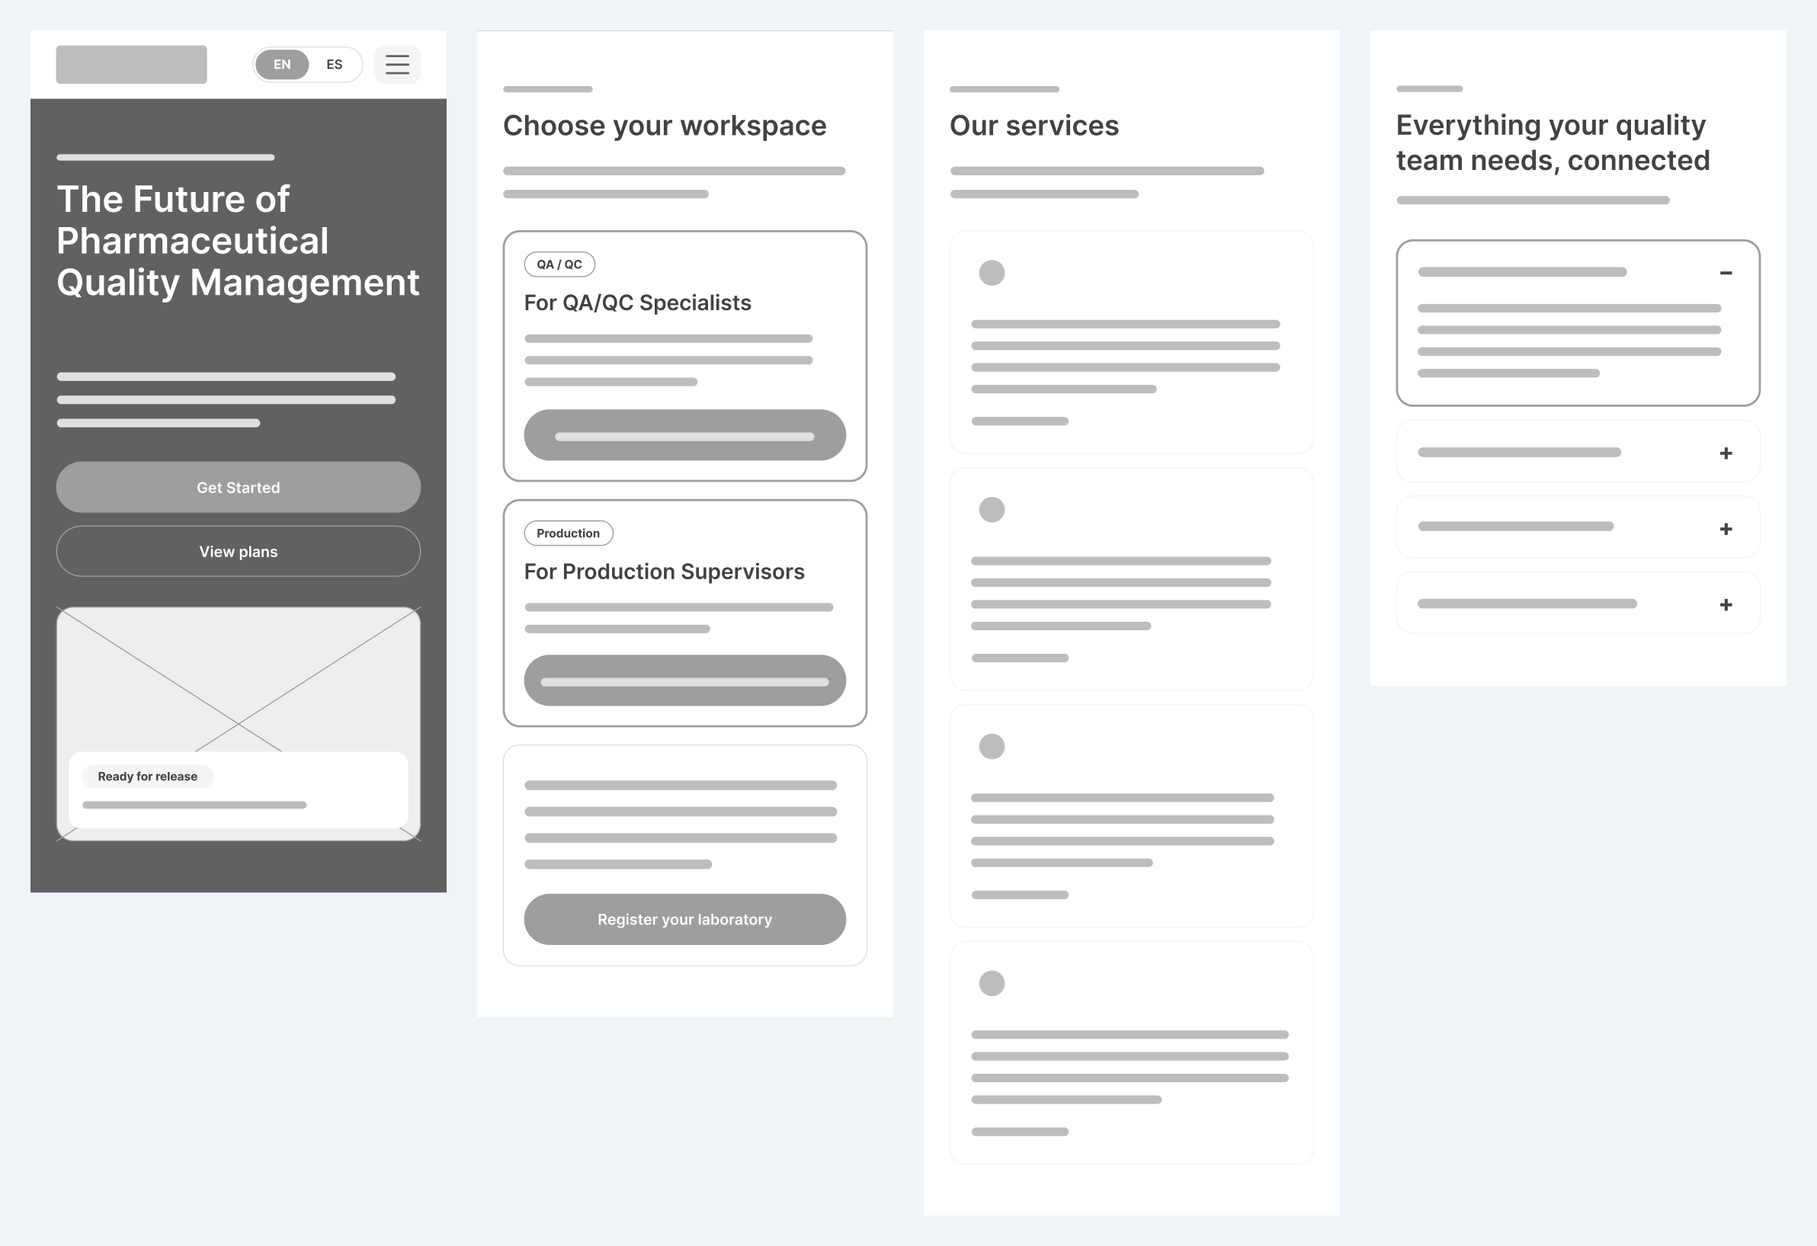
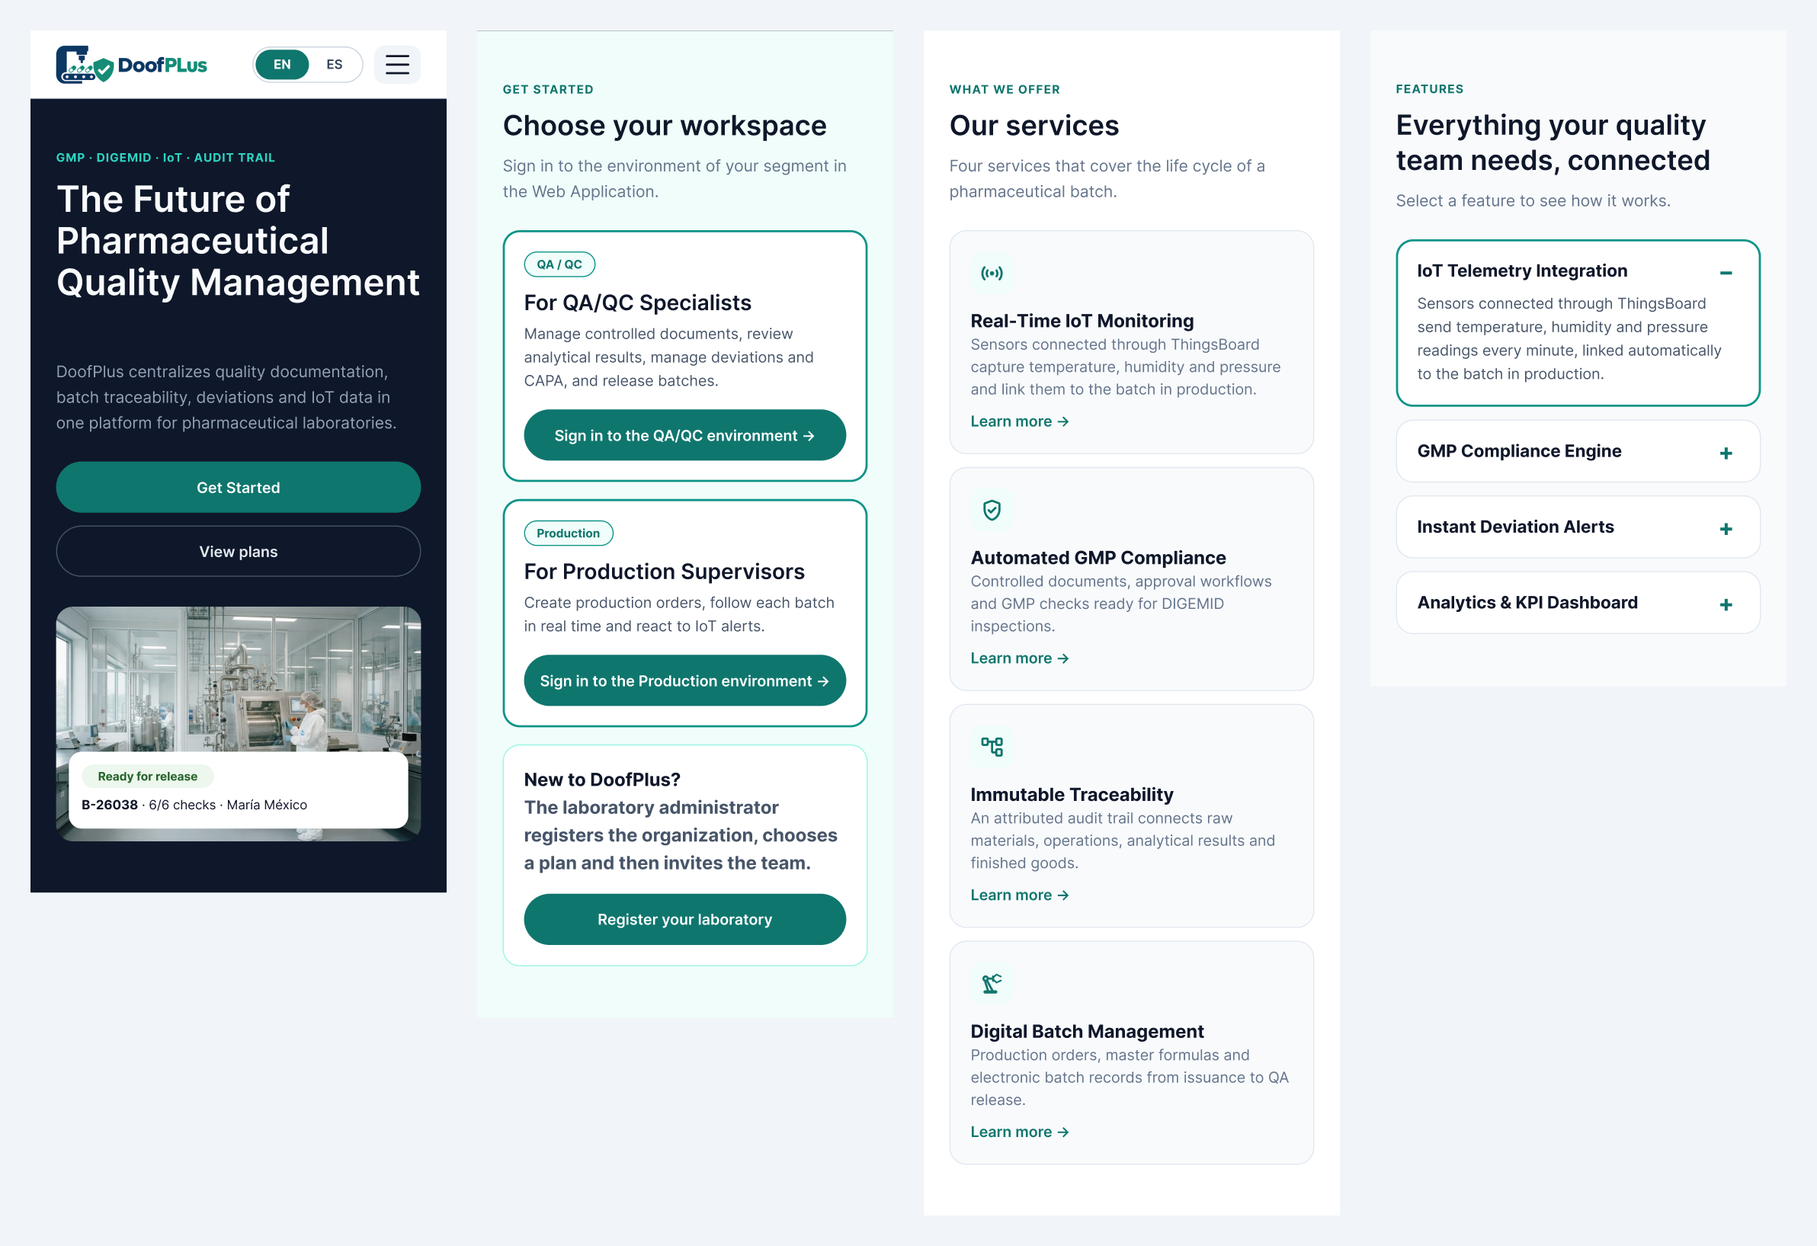
docs(chapter4): add new imagen about wireframes and mockups

diff --git a/docs/chapter4.md b/docs/chapter4.md
@@ -9,7 +9,7 @@ En esta sección se establecen las bases visuales y de comunicación para DoofPl
 
 ### 4.1.1. General Style Guidelines
 
-Para asegurar una interfaz coherente y alineada con los estándares que exige la industria farmacéutica, el sistema de diseño de DoofPlus toma como base **Material Design**, el lenguaje de diseño indicado para el proyecto. En la Web Application se implementa con **Angular CLI** usando un tema basado en **Material Design**, y en la Landing Page con ***HTML5*** y ***CSS3*** respetando los mismos tokens de color, tipografía y espaciado.
+Para asegurar una interfaz coherente y alineada con los estándares que exige la industria farmacéutica, el sistema de diseño de DoofPlus toma como base **Material Design**, el lenguaje de diseño indicado para el proyecto. En la Web Application se implementa con **View**  y en la Landing Page con ***HTML5*** y ***CSS3*** respetando los mismos tokens de color, tipografía y espaciado.
 
 #### Branding:
 El logotipo escogido para DoofPlus comunica de forma directa y sintética la propuesta de valor del sistema: la integración de la automatización industrial con la rigurosidad del control farmacéutico. Para la sección de Branding, el análisis de los componentes de dicho logotipo se desglosa de la siguiente manera:
@@ -138,10 +138,10 @@ Para el posicionamiento y la indexación correcta de las principales páginas de
 
 Valores para la Landing Page (sitio estático indexable):
 
-| **Página** | **Title** | **Meta description** | **Meta keywords** | **Author** |
-| --- | --- | --- | --- | --- |
-| Landing Page (index.html) | DoofPlus \| Pharmaceutical Quality & Batch Traceability Platform | SaaS platform that centralizes quality documentation, batch traceability, deviations and IoT data for pharmaceutical laboratories (GMP/DIGEMID). | pharmaceutical quality management, batch traceability, GMP, DIGEMID, CAPA, audit trail, IoT | IngesCompany |
-| Contact us (contact.html) | Contact us \| DoofPlus | Send your questions about DoofPlus and its plans to the IngesCompany team. | DoofPlus contact, pharmaceutical quality software, GMP software Peru | IngesCompany |
+| **Página** | **Title** | **Meta description** | **Meta keywords** | **Author**     |
+| --- | --- | --- | --- |----------------|
+| Landing Page (index.html) | DoofPlus \| Pharmaceutical Quality & Batch Traceability Platform | SaaS platform that centralizes quality documentation, batch traceability, deviations and IoT data for pharmaceutical laboratories (GMP/DIGEMID). | pharmaceutical quality management, batch traceability, GMP, DIGEMID, CAPA, audit trail, IoT | IngesCompanyCC |
+| Contact us (contact.html) | Contact us \| DoofPlus | Send your questions about DoofPlus and its plans to the IngesCompany team. | DoofPlus contact, pharmaceutical quality software, GMP software Peru | IngesCompanyCC |
 
 Valores para las vistas principales de la Web Application. Al ser una SPA, el título se actualiza en cada cambio de ruta con la propiedad `title` de las rutas de Angular Router y la descripción con el servicio `Meta` de Angular; keywords y author se definen una vez en `index.html` con los mismos valores de la Landing Page:
 
@@ -181,7 +181,7 @@ Las acciones y técnicas que guían a los usuarios son:
 
 ## 4.3. Landing Page UI Design
 
-La propuesta de UI de la Landing Page traduce las decisiones de las secciones anteriores: la jerarquía visual ordena el contenido desde la propuesta de valor hasta la presentación de la startup; las etiquetas (Home, Features, Benefits, Plans, About Us) siguen el Labeling System; la barra fija con anclas, las llamadas a la acción por segmento y el enlace "Sign in" implementan el Navigation System; y el Design System de la sección 4.1 (Inter, verde azulado #0F766E, azul pizarra #0F172A y Material Symbols Rounded) se aplica de forma consistente con la Web Application. La Landing Page atiende las user stories US01 a US05 y US44 a US49.
+La propuesta de UI de la Landing Page traduce las decisiones de las secciones anteriores: la jerarquía visual ordena el contenido desde la propuesta de valor hasta la presentación de la startup; las etiquetas (Home, Features, Benefits, Plans, About Us) siguen el Labeling System; la barra fija con anclas, las llamadas a la acción por segmento y el enlace "Sign in" implementan el Navigation System; y el Design System de la sección 4.1 (Inter, verde azulado #0F766E, azul pizarra #0F172A y Material Symbols Rounded) se aplica de forma consistente con la Web Application. La Landing Page atiende las user stories US01 a US05 y US44 a US49. Los wireframes y mock-ups se elaboraron en Figma y están disponibles en el [archivo de diseño de DoofPlus](https://www.figma.com/design/E9MAGI3LDC0m8o6lWTGyfK/DoofPlus?node-id=19-813).
 
 Las secciones se presentan en el siguiente orden, que prioriza la información que el visitante necesita para decidir (qué es DoofPlus, qué ofrece y cuánto cuesta) antes que la presentación del equipo:
 
@@ -345,11 +345,11 @@ Los mock-ups aplican sobre los wireframes el Design System de la sección 4.1 y 
 
 | Contact us | Contact us · Invalid data | Message sent |
 | :---: | :---: | :---: |
-| ![Contact us](../assets/img/chapter4/landing-page/wireframes/pages/landing-desktop-contact-us.png) | ![Contact us · Invalid data](../assets/img/chapter4/landing-page/wireframes/pages/landing-desktop-contact-us-invalid-data.png) | ![Message sent](../assets/img/chapter4/landing-page/wireframes/pages/landing-desktop-message-sent.png) |
+| ![Contact us](../assets/img/chapter4/landing-page/mockups/pages/landing-desktop-contact-us.png) | ![Contact us · Invalid data](../assets/img/chapter4/landing-page/mockups/pages/landing-desktop-contact-us-invalid-data.png) | ![Message sent](../assets/img/chapter4/landing-page/mockups/pages/landing-desktop-message-sent.png) |
 
 | Terms of Service | Privacy Policy |
 | :---: | :---: |
-| ![Terms of Service](../assets/img/chapter4/landing-page/wireframes/pages/landing-desktop-terms-of-service.png) | ![Privacy Policy](../assets/img/chapter4/landing-page/wireframes/pages/landing-desktop-privacy-policy.png) |
+| ![Terms of Service](../assets/img/chapter4/landing-page/mockups/pages/landing-desktop-terms-of-service.png) | ![Privacy Policy](../assets/img/chapter4/landing-page/mockups/pages/landing-desktop-privacy-policy.png) |
 
 **Mobile Web Browser (390 px)**
 
@@ -363,128 +363,73 @@ La versión mobile mantiene el orden y el contenido de desktop en una sola colum
 
 | Menu open | Contact us | Contact us · Invalid data | Message sent |
 | :---: | :---: | :---: | :---: |
-| ![Menu open](../assets/img/chapter4/landing-page/wireframes/pages/landing-mobile-menu-open.png) | ![Contact us](../assets/img/chapter4/landing-page/wireframes/pages/landing-mobile-contact-us.png) | ![Invalid data](../assets/img/chapter4/landing-page/wireframes/pages/landing-mobile-contact-us-invalid-data.png) | ![Message sent](../assets/img/chapter4/landing-page/wireframes/pages/landing-mobile-message-sent.png) |
-
+| ![Menu open](../assets/img/chapter4/landing-page/mockups/pages/landing-mobile-menu-open.png) | ![Contact us](../assets/img/chapter4/landing-page/mockups/pages/landing-mobile-contact-us.png) | ![Invalid data](../assets/img/chapter4/landing-page/mockups/pages/landing-mobile-contact-us-invalid-data.png) | ![Message sent](../assets/img/chapter4/landing-page/mockups/pages/landing-mobile-message-sent.png) |
 
 ## 4.4. Web Applications UX/UI Design
 
-La presente sección describe el diseño de experiencia de usuario (UX) e interfaz de usuario (UI) desarrollado para la plataforma web DoofPlus. La propuesta fue diseñada para apoyar la gestión integral de calidad farmacéutica bajo entornos regulados GxP, facilitando la administración documental, la trazabilidad de procesos productivos, la gestión de desviaciones y el monitoreo operativo de laboratorios y líneas de manufactura.
+Esta sección describe el diseño de experiencia (UX) e interfaz (UI) de la Web Application de DoofPlus. La aplicación se organiza en tres entornos, cada uno con su propio inicio de sesión, color y módulos: **QA/QC** (segmento 1, especialista de aseguramiento y control de calidad, persona María México), **Production** (segmento 2, jefe o supervisor de producción, persona Alberto Valle) y **Administration** (administrador del laboratorio, que registra la organización, invita a los usuarios y gestiona la suscripción). Los datos de ejemplo corresponden a un mismo caso: Laboratorios Andinos S.A.C., el lote B-26041 de Paracetamol 500 mg y la excursión de temperatura del sensor T-204 que origina la desviación DEV-26017, de modo que las pantallas de ambos segmentos cuentan una historia coherente. Los wireframes y mock-ups de escritorio y mobile se elaboraron en Figma y están disponibles en el [archivo de diseño de DoofPlus](https://www.figma.com/design/E9MAGI3LDC0m8o6lWTGyfK/DoofPlus?node-id=19-814).
 
-El diseño considera principios de usabilidad, accesibilidad, consistencia visual y eficiencia operativa, asegurando que los diferentes perfiles de usuario puedan ejecutar actividades críticas relacionadas con el cumplimiento normativo, la liberación de lotes y la auditoría regulatoria.
+Todas las pantallas comparten la misma estructura, derivada de la arquitectura de información de la sección 4.2: un sidebar con el logotipo, el entorno activo y sus módulos (navegación global); una barra superior con la búsqueda global, el selector de idioma y el avatar del usuario; y un área de contenido que ubica arriba los indicadores y abajo las tablas de detalle. Las acciones críticas, como aprobar, liberar o rechazar, se confirman con firma electrónica (US08), y los estados se muestran con los valores del modelo de dominio.
 
 ### 4.4.1. Web Applications Wireframes
 
-En esta sección se presentan los wireframes diseñados para la aplicación web de DoofPlus. Cada pantalla fue desarrollada para gestionar procesos de calidad farmacéutica, producción regulada GxP, trazabilidad de lotes, control documental y cumplimiento normativo mediante firmas electrónicas y registros auditables.
+Los wireframes de baja fidelidad definen la distribución de cada pantalla antes del diseño visual. Se agrupan por segmento y se presentan en montajes, en el mismo orden que los mock-ups de la sección 4.4.3, donde se explica cada pantalla.
 
-A continuación, se muestran las representaciones esquemáticas de baja fidelidad que describen la estructura, distribución de componentes y funcionalidades principales de cada módulo de la plataforma.
+**Desktop Web Browser · Compartido: elección de entorno, registro de la organización y perfil**
 
-- **Landing Page - DoofPlus**
+Incluye "Sign in · Choose your environment", "Organization registration" con su estado "RUC already registered" y "Account · Profile & preferences".
 
-Pantalla de presentación de la plataforma que comunica la propuesta de valor de DoofPlus y permite acceder al portal especializado para gestión de calidad y producción farmacéutica bajo normativas GxP.
+![Web App Wireframes · Desktop · Shared](../assets/img/chapter4/web-application/wireframes/desktop-shared-environment-selection-onboarding-profile-montage-1.png)
 
-![Wireframe](../assets/img/chapter4/prototype/wireframes/Landing%20Page.png)
+**Desktop Web Browser · Segmento 1: Especialista QA/QC**
 
-- **Regulatory Identification - DoofPlus**
+Incluye el inicio de sesión del entorno QA/QC con sus estados (credenciales inválidas, 2FA y acceso no autorizado) y los módulos Quality overview, Quality indicators, Quality documents, Analytical results, Deviation report & detail, CAPA plan, Batch release, Audits & findings, Audit trail, Regulatory reports y Tasks & collaboration.
 
-Pantalla de autenticación regulatoria que solicita las credenciales corporativas y la firma electrónica necesarias para acceder a funcionalidades sujetas a cumplimiento FDA 21 CFR Part 11 y normativas GxP.
+![Web App Wireframes · Desktop · QA/QC (1)](../assets/img/chapter4/web-application/wireframes/desktop-segment-1-qa-qc-specialist-montage-1.png)
 
-![Wireframe](../assets/img/chapter4/prototype/wireframes/Login.png)
+![Web App Wireframes · Desktop · QA/QC (2)](../assets/img/chapter4/web-application/wireframes/desktop-segment-1-qa-qc-specialist-montage-2.png)
 
-- **Environment Selection Portal - DoofPlus**
+![Web App Wireframes · Desktop · QA/QC (3)](../assets/img/chapter4/web-application/wireframes/desktop-segment-1-qa-qc-specialist-montage-3.png)
 
-Interfaz que permite seleccionar el entorno de trabajo autorizado, diferenciando entre el segmento de calidad (QA/QC) y el entorno de producción farmacéutica.
+![Web App Wireframes · Desktop · QA/QC (4)](../assets/img/chapter4/web-application/wireframes/desktop-segment-1-qa-qc-specialist-montage-4.png)
 
-![Wireframe](../assets/img/chapter4/prototype/wireframes/Selección%20de%20Espacio.png)
+![Web App Wireframes · Desktop · QA/QC (5)](../assets/img/chapter4/web-application/wireframes/desktop-segment-1-qa-qc-specialist-montage-5.png)
 
-- **QA & Lab Console Dashboard - DoofPlus**
+**Desktop Web Browser · Segmento 2: Jefe o Supervisor de Producción**
 
-Panel principal para usuarios de calidad que centraliza la supervisión de lotes pendientes, ensayos analíticos, desviaciones abiertas y actividades del laboratorio.
+Incluye el inicio de sesión del entorno de Producción con sus estados y los módulos Production overview, Products & master formulas, Production order & master formula, Batches (y su estado "Batch not created"), Batch detail & traceability, Batch IoT evidence, Raw-material receipt, Equipment & IoT devices, IoT overview y Equipment & sensor detail.
 
-![Wireframe](../assets/img/chapter4/prototype/wireframes/Dashboard%20Calidad.png)
+![Web App Wireframes · Desktop · Production (1)](../assets/img/chapter4/web-application/wireframes/desktop-segment-2-production-supervisor-montage-1.png)
 
-- **Document Management & Master SOPs - DoofPlus**
+![Web App Wireframes · Desktop · Production (2)](../assets/img/chapter4/web-application/wireframes/desktop-segment-2-production-supervisor-montage-2.png)
 
-Repositorio documental diseñado para gestionar procedimientos operativos estándar (SOPs), registros electrónicos, certificados de análisis y documentación regulatoria controlada.
+![Web App Wireframes · Desktop · Production (3)](../assets/img/chapter4/web-application/wireframes/desktop-segment-2-production-supervisor-montage-3.png)
 
-![Wireframe](../assets/img/chapter4/prototype/wireframes/Documentación.png)
+![Web App Wireframes · Desktop · Production (4)](../assets/img/chapter4/web-application/wireframes/desktop-segment-2-production-supervisor-montage-4.png)
 
-- **Quality Protocols & Validation Management - DoofPlus**
+**Desktop Web Browser · Administrador del laboratorio**
 
-Módulo destinado a la administración de protocolos de validación, cualificación de equipos y seguimiento de actividades relacionadas con IQ, OQ y PQ.
+Incluye el inicio de sesión del entorno de Administración y los módulos Administration overview, Users & profiles, Invite user y Subscriptions & payments.
 
-![Wireframe](../assets/img/chapter4/prototype/wireframes/Protocolos.png)
+![Web App Wireframes · Desktop · Administration (1)](../assets/img/chapter4/web-application/wireframes/desktop-laboratory-administrator-montage-1.png)
 
-- **Critical Deviations & CAPA Actions Control - DoofPlus**
+![Web App Wireframes · Desktop · Administration (2)](../assets/img/chapter4/web-application/wireframes/desktop-laboratory-administrator-montage-2.png)
 
-Pantalla de seguimiento de desviaciones críticas, análisis de impacto GMP y control de acciones correctivas y preventivas (CAPA).
+**Mobile Web Browser**
 
-![Wireframe](../assets/img/chapter4/prototype/wireframes/Desviaciones.png)
+En mobile se priorizan las tareas que se realizan fuera del escritorio: la elección de entorno y el inicio de sesión, la bandeja de tareas, la revisión y firma de aprobaciones y la consulta de lotes para QA/QC, y el monitoreo IoT, la consulta de lotes y el reporte de incidencias desde planta para Producción.
 
-- **Process Audit Master Plan - DoofPlus**
+![Web App Wireframes · Mobile · Shared](../assets/img/chapter4/web-application/wireframes/mobile-shared-environment-selection-montage-1.png)
 
-Módulo para planificar, ejecutar y monitorear auditorías internas, inspecciones regulatorias y hallazgos asociados al cumplimiento GMP.
+![Web App Wireframes · Mobile · QA/QC (1)](../assets/img/chapter4/web-application/wireframes/mobile-segment-1-qa-qc-specialist-montage-1.png)
 
-![Wireframe](../assets/img/chapter4/prototype/wireframes/Auditorías.png)
+![Web App Wireframes · Mobile · QA/QC (2)](../assets/img/chapter4/web-application/wireframes/mobile-segment-1-qa-qc-specialist-montage-2.png)
 
-- **GxP Regulatory Reports & Metrics - DoofPlus**
+![Web App Wireframes · Mobile · Production (1)](../assets/img/chapter4/web-application/wireframes/mobile-segment-2-production-supervisor-montage-1.png)
 
-Panel de análisis que permite generar reportes regulatorios, revisar métricas de desempeño y exportar información validada para auditorías e inspecciones.
+![Web App Wireframes · Mobile · Production (2)](../assets/img/chapter4/web-application/wireframes/mobile-segment-2-production-supervisor-montage-2.png)
 
-![Wireframe](../assets/img/chapter4/prototype/wireframes/Reportes.png)
-
-- **Analytical Testing & Microbiology Control (QC) - DoofPlus**
-
-Pantalla de control de ensayos analíticos y microbiológicos que permite gestionar muestras, equipos de laboratorio y resultados fuera de especificación (OOS).
-
-![Wireframe](../assets/img/chapter4/prototype/wireframes/Ensayos.png)
-
-- **Analytical Results Entry & Validation - DoofPlus**
-
-Interfaz destinada al registro y validación de resultados analíticos, integrando verificación de especificaciones y aprobación mediante firma electrónica.
-
-![Wireframe](../assets/img/chapter4/prototype/wireframes/Resultados.png)
-
-- **Pharmaceutical Batch History & Traceability - DoofPlus**
-
-Módulo de consulta histórica que permite rastrear lotes farmacéuticos, consultar estados regulatorios y acceder a certificados de análisis.
-
-![Wireframe](../assets/img/chapter4/prototype/wireframes/Historial%20de%20Lotes.png)
-
-- **Cross-Traceability & Audit Center - DoofPlus**
-
-Centro de trazabilidad que integra genealogía de lotes, registros de laboratorio, documentación asociada y auditoría completa de eventos regulatorios.
-
-![Wireframe](../assets/img/chapter4/prototype/wireframes/Centro%20de%20Trazabilidad.png)
-
-- **GxP Production Control Console - DoofPlus**
-
-Panel principal del entorno de producción que permite supervisar órdenes activas, progreso de eBR y estado de los procesos de manufactura.
-
-![Wireframe](../assets/img/chapter4/prototype/wireframes/Dashboard%20Producción.png)
-
-- **GxP Batch Execution & Management Console - DoofPlus**
-
-Interfaz para la gestión operativa de lotes de fabricación, incluyendo seguimiento de etapas de producción, firmas electrónicas y responsables asignados.
-
-![Wireframe](../assets/img/chapter4/prototype/wireframes/Gestión%20de%20Lotes.png)
-
-- **GxP Incident Registration & Deviation Management - DoofPlus**
-
-Módulo de registro de incidencias que permite documentar eventos de desviación, adjuntar evidencias y gestionar acciones de contención.
-
-![Wireframe](../assets/img/chapter4/prototype/wireframes/Incidencias.png)
-
-- **GxP Profile & Regulatory Credentials - DoofPlus**
-
-Pantalla de perfil regulatorio donde los usuarios administran credenciales, firmas electrónicas y permisos asociados a los distintos contextos del sistema.
-
-![Wireframe](../assets/img/chapter4/prototype/wireframes/Perfil.png)
-
-- **General Settings & GxP Policies - DoofPlus**
-
-Módulo de configuración orientado a la administración de políticas GxP, parámetros de seguridad, auditorías internas y canales de notificación regulatoria.
-
-![Wireframe](../assets/img/chapter4/prototype/wireframes/Configuración.png)
+![Web App Wireframes · Mobile · Administration](../assets/img/chapter4/web-application/wireframes/mobile-laboratory-administrator-montage-1.png)
 
 ### 4.4.2. Web Applications Wireflow Diagrams
 
